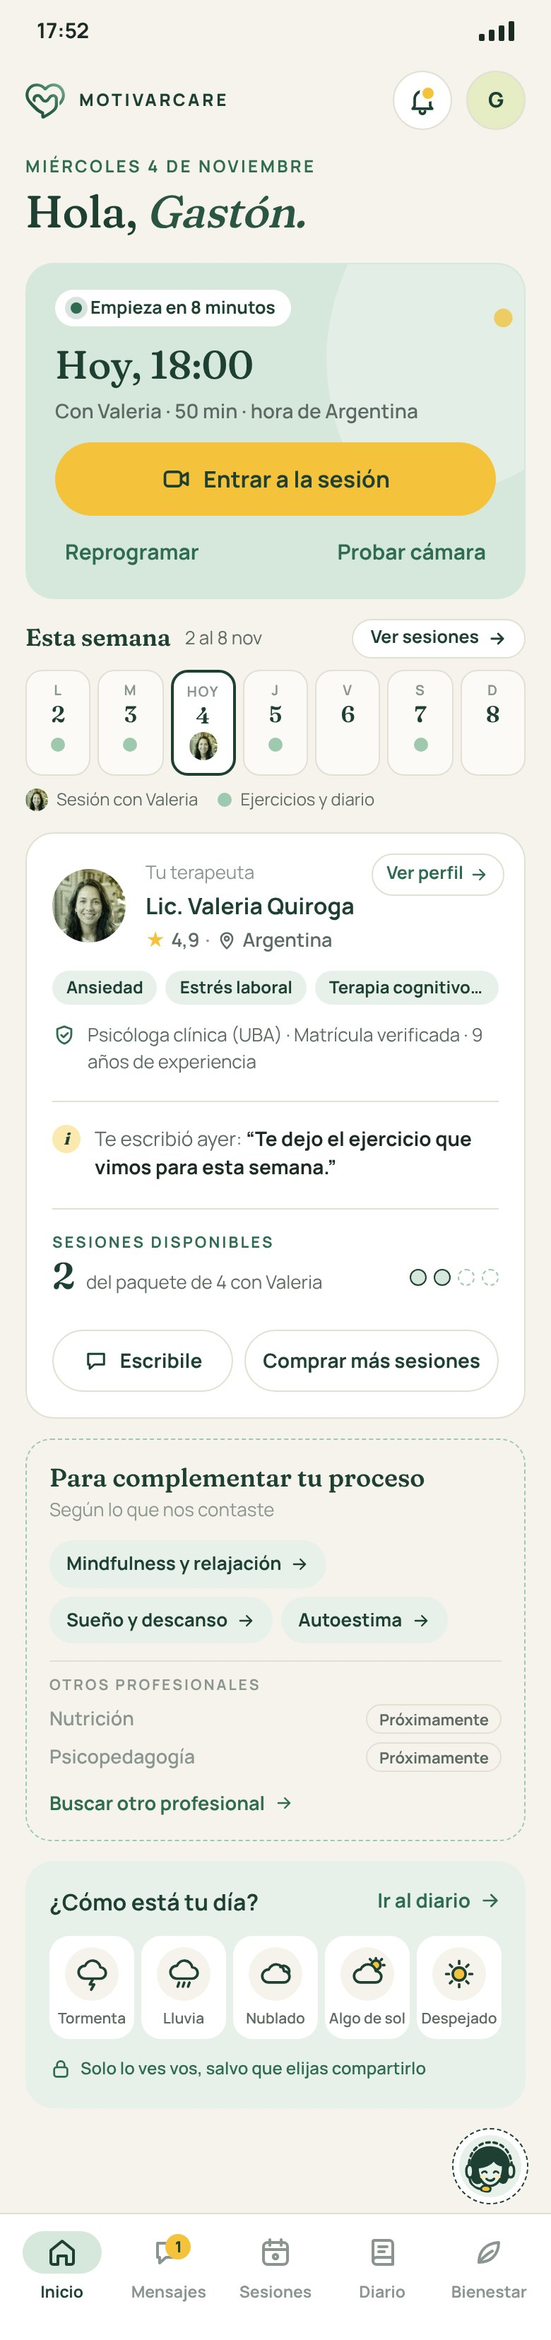
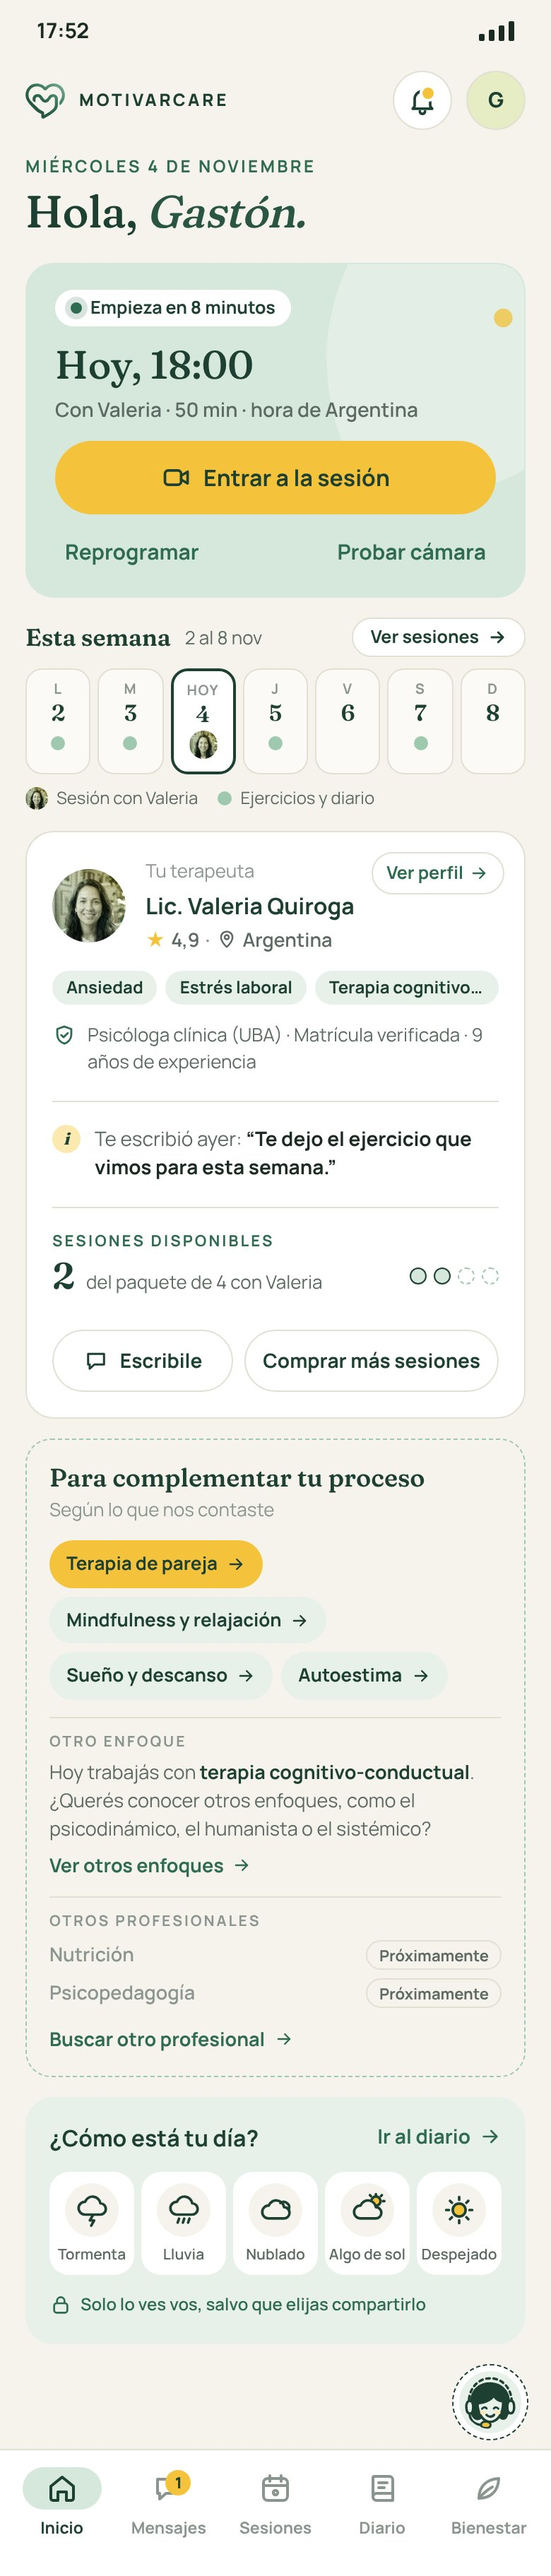
App del usuario: widget de complemento en cuatro niveles
"Para complementar tu proceso" ordena las sugerencias en cuatro niveles:
la modalidad complementaria en amarillo ("Terapia de pareja" para quien
hace terapia individual), las especialidades, otro enfoque terapéutico
(TCC, psicodinámico, humanista, sistémico) como apartado aparte y otros
profesionales como "Próximamente". Mockups 1, 2 y 4, escritorio y
teléfono.

Claude-Session: https://claude.ai/code/session_01WU1DRuLLvKJwMVuiPWLics

diff --git a/web/public/app-usuario/ronda-2.html b/web/public/app-usuario/ronda-2.html
@@ -815,6 +815,11 @@ ul.lista-simple { padding: 0; }
 .tel-comp { padding: 16px; }
 .marco.esc.largo { height: auto; min-height: 1024px; }
 .marco.esc.largo .contenido { padding-bottom: 110px; }
+
+.esp-sug.modalidad { background: var(--amarillo); }
+.comp-enfoque { display: flex; flex-direction: column; gap: 6px; padding-top: 10px; border-top: 1px solid var(--linea); }
+.comp-enfoque p { font-size: 13.5px; color: var(--tinta-suave); margin: 0; line-height: 1.45; }
+.comp-enfoque p b { color: var(--bosque); }
 </style>
 </head>
 <body>
@@ -933,9 +938,15 @@ ul.lista-simple { padding: 0; }
           <div class="complementar">
             <div class="comp-cab"><b>Para complementar tu proceso</b><span class="tenue">Según lo que nos contaste</span></div>
             <div class="comp-esp">
+              <a class="esp-sug modalidad">Terapia de pareja<svg class="ico"><use href="#i-flecha"/></svg></a>
               <a class="esp-sug">Mindfulness y relajación<svg class="ico"><use href="#i-flecha"/></svg></a>
               <a class="esp-sug">Sueño y descanso<svg class="ico"><use href="#i-flecha"/></svg></a>
               <a class="esp-sug">Autoestima<svg class="ico"><use href="#i-flecha"/></svg></a>
+            </div>
+            <div class="comp-enfoque">
+              <span class="et-comp">Otro enfoque</span>
+              <p>Hoy trabajás con <b>terapia cognitivo-conductual</b>. ¿Querés conocer otros enfoques, como el psicodinámico, el humanista o el sistémico?</p>
+              <a class="enlace comp-buscar">Ver otros enfoques<svg class="ico"><use href="#i-flecha"/></svg></a>
             </div>
             <div class="comp-otros">
               <span class="et-comp">Otros profesionales</span>
@@ -996,9 +1007,15 @@ ul.lista-simple { padding: 0; }
     <div class="complementar tel-comp">
             <div class="comp-cab"><b>Para complementar tu proceso</b><span class="tenue">Según lo que nos contaste</span></div>
             <div class="comp-esp">
+              <a class="esp-sug modalidad">Terapia de pareja<svg class="ico"><use href="#i-flecha"/></svg></a>
               <a class="esp-sug">Mindfulness y relajación<svg class="ico"><use href="#i-flecha"/></svg></a>
               <a class="esp-sug">Sueño y descanso<svg class="ico"><use href="#i-flecha"/></svg></a>
               <a class="esp-sug">Autoestima<svg class="ico"><use href="#i-flecha"/></svg></a>
+            </div>
+            <div class="comp-enfoque">
+              <span class="et-comp">Otro enfoque</span>
+              <p>Hoy trabajás con <b>terapia cognitivo-conductual</b>. ¿Querés conocer otros enfoques, como el psicodinámico, el humanista o el sistémico?</p>
+              <a class="enlace comp-buscar">Ver otros enfoques<svg class="ico"><use href="#i-flecha"/></svg></a>
             </div>
             <div class="comp-otros">
               <span class="et-comp">Otros profesionales</span>
@@ -1108,9 +1125,15 @@ ul.lista-simple { padding: 0; }
           <div class="complementar">
             <div class="comp-cab"><b>Para complementar tu proceso</b><span class="tenue">Según lo que nos contaste</span></div>
             <div class="comp-esp">
+              <a class="esp-sug modalidad">Terapia de pareja<svg class="ico"><use href="#i-flecha"/></svg></a>
               <a class="esp-sug">Mindfulness y relajación<svg class="ico"><use href="#i-flecha"/></svg></a>
               <a class="esp-sug">Sueño y descanso<svg class="ico"><use href="#i-flecha"/></svg></a>
               <a class="esp-sug">Autoestima<svg class="ico"><use href="#i-flecha"/></svg></a>
+            </div>
+            <div class="comp-enfoque">
+              <span class="et-comp">Otro enfoque</span>
+              <p>Hoy trabajás con <b>terapia cognitivo-conductual</b>. ¿Querés conocer otros enfoques, como el psicodinámico, el humanista o el sistémico?</p>
+              <a class="enlace comp-buscar">Ver otros enfoques<svg class="ico"><use href="#i-flecha"/></svg></a>
             </div>
             <div class="comp-otros">
               <span class="et-comp">Otros profesionales</span>
@@ -1175,9 +1198,15 @@ ul.lista-simple { padding: 0; }
     <div class="complementar tel-comp">
             <div class="comp-cab"><b>Para complementar tu proceso</b><span class="tenue">Según lo que nos contaste</span></div>
             <div class="comp-esp">
+              <a class="esp-sug modalidad">Terapia de pareja<svg class="ico"><use href="#i-flecha"/></svg></a>
               <a class="esp-sug">Mindfulness y relajación<svg class="ico"><use href="#i-flecha"/></svg></a>
               <a class="esp-sug">Sueño y descanso<svg class="ico"><use href="#i-flecha"/></svg></a>
               <a class="esp-sug">Autoestima<svg class="ico"><use href="#i-flecha"/></svg></a>
+            </div>
+            <div class="comp-enfoque">
+              <span class="et-comp">Otro enfoque</span>
+              <p>Hoy trabajás con <b>terapia cognitivo-conductual</b>. ¿Querés conocer otros enfoques, como el psicodinámico, el humanista o el sistémico?</p>
+              <a class="enlace comp-buscar">Ver otros enfoques<svg class="ico"><use href="#i-flecha"/></svg></a>
             </div>
             <div class="comp-otros">
               <span class="et-comp">Otros profesionales</span>
@@ -1467,9 +1496,15 @@ ul.lista-simple { padding: 0; }
           <div class="complementar">
             <div class="comp-cab"><b>Para complementar tu proceso</b><span class="tenue">Según lo que nos contaste</span></div>
             <div class="comp-esp">
+              <a class="esp-sug modalidad">Terapia de pareja<svg class="ico"><use href="#i-flecha"/></svg></a>
               <a class="esp-sug">Mindfulness y relajación<svg class="ico"><use href="#i-flecha"/></svg></a>
               <a class="esp-sug">Sueño y descanso<svg class="ico"><use href="#i-flecha"/></svg></a>
               <a class="esp-sug">Autoestima<svg class="ico"><use href="#i-flecha"/></svg></a>
+            </div>
+            <div class="comp-enfoque">
+              <span class="et-comp">Otro enfoque</span>
+              <p>Hoy trabajás con <b>terapia cognitivo-conductual</b>. ¿Querés conocer otros enfoques, como el psicodinámico, el humanista o el sistémico?</p>
+              <a class="enlace comp-buscar">Ver otros enfoques<svg class="ico"><use href="#i-flecha"/></svg></a>
             </div>
             <div class="comp-otros">
               <span class="et-comp">Otros profesionales</span>
@@ -1538,9 +1573,15 @@ ul.lista-simple { padding: 0; }
     <div class="complementar tel-comp">
             <div class="comp-cab"><b>Para complementar tu proceso</b><span class="tenue">Según lo que nos contaste</span></div>
             <div class="comp-esp">
+              <a class="esp-sug modalidad">Terapia de pareja<svg class="ico"><use href="#i-flecha"/></svg></a>
               <a class="esp-sug">Mindfulness y relajación<svg class="ico"><use href="#i-flecha"/></svg></a>
               <a class="esp-sug">Sueño y descanso<svg class="ico"><use href="#i-flecha"/></svg></a>
               <a class="esp-sug">Autoestima<svg class="ico"><use href="#i-flecha"/></svg></a>
+            </div>
+            <div class="comp-enfoque">
+              <span class="et-comp">Otro enfoque</span>
+              <p>Hoy trabajás con <b>terapia cognitivo-conductual</b>. ¿Querés conocer otros enfoques, como el psicodinámico, el humanista o el sistémico?</p>
+              <a class="enlace comp-buscar">Ver otros enfoques<svg class="ico"><use href="#i-flecha"/></svg></a>
             </div>
             <div class="comp-otros">
               <span class="et-comp">Otros profesionales</span>

diff --git a/06-app-usuario/historial/ronda-2.md b/06-app-usuario/historial/ronda-2.md
@@ -322,8 +322,14 @@ En la primera versión del mockup 5, "Especialidad" era un tercer criterio de or
 
 El espacio "Sumar profesional" de los mockups 1, 2 y 4 se convierte en un **widget de recomendaciones**, "**Para complementar tu proceso**", debajo de la tarjeta del terapeuta. Sirve para iniciar una nueva búsqueda o sumar profesionales sin sentirse como una venta:
 
-- **Especialidades sugeridas** "según lo que nos contaste": dos o tres que complementan lo que la persona ya trabaja, nunca las mismas (en el ejemplo, "Mindfulness y relajación", "Sueño y descanso" y "Autoestima", porque con Valeria ya trabaja ansiedad y estrés laboral). Cada una lleva a "Elegí a tu profesional" con los filtros ya cargados: "Mostrar: Terapeutas" y esa especialidad como prioridad en "Compatibilidad".
-- **Otros profesionales:** otras categorías, como Nutrición y Psicopedagogía, marcadas como **"Próximamente"** mientras en esta fase solo haya psicólogos. Cuando estén disponibles, llevan a "Elegí a tu profesional" con "Mostrar" en esa categoría.
+Las sugerencias se ordenan en cuatro niveles, de lo más cercano a lo más amplio:
+
+1. **Modalidad complementaria.** Lo primero que se pregunta en el cuestionario es si la persona quiere terapia individual o de pareja, y son complementarias. Por eso la primera pill, en **amarillo**, ofrece la otra: si hace terapia individual, "**Terapia de pareja**"; si hace terapia de pareja, "Terapia individual".
+2. **Especialidades o motivos de consulta**, "según lo que nos contaste": dos o tres que complementan lo que ya trabaja, nunca las mismas (en el ejemplo, "Mindfulness y relajación", "Sueño y descanso" y "Autoestima", porque con Valeria ya trabaja ansiedad y estrés laboral). Van como pills menta.
+3. **Otro enfoque.** El enfoque terapéutico es el método con el que trabaja el terapeuta: cognitivo-conductual (TCC), psicodinámico o psicoanalítico, humanista, sistémico o familiar, entre otros. Se llama "**enfoque**" para no confundirlo con el tipo de terapia (individual o de pareja). No va como pills: es un apartado que dice con qué enfoque trabaja hoy ("Hoy trabajás con terapia cognitivo-conductual") y pregunta si quiere conocer otros, con "Ver otros enfoques".
+4. **Otros profesionales:** otras categorías, como Nutrición y Psicopedagogía, marcadas como **"Próximamente"** mientras en esta fase solo haya psicólogos.
+
+Cada opción lleva a "Elegí a tu profesional" con los filtros ya cargados: la modalidad, la especialidad como prioridad en "Compatibilidad", el enfoque o la categoría en "Mostrar". La elección de profesional (mockups 5 y 6) todavía no tiene la modalidad ni el enfoque entre sus criterios: hay que sumarlos.
 - **"Buscar otro profesional"**, al final, para buscar sin sugerencias.
 - Mantiene el borde punteado (lo que todavía está por sumar) y no usa amarillo, para no competir con la sesión.
 - **No aparece en el mockup 3** (sin terapeuta): ahí no hay nada que complementar, y la acción principal ya es "Ver terapeutas".
